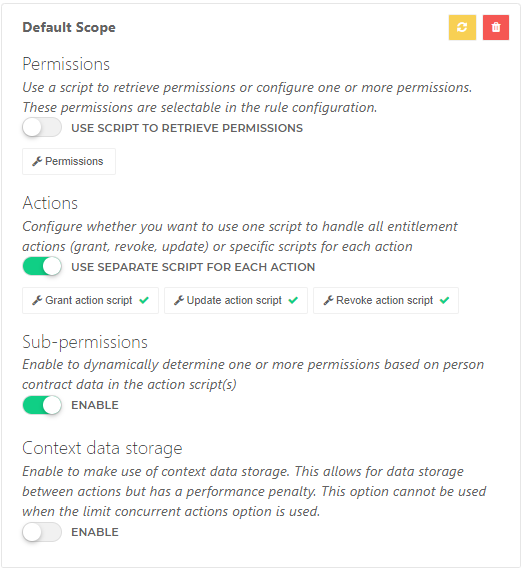
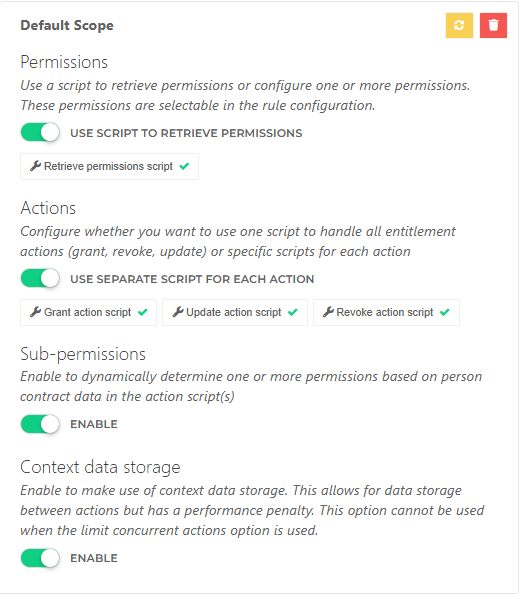
Readme Wip

diff --git a/README.md b/README.md
@@ -52,12 +52,16 @@ Extensive knowledge of HelloID provisioning and Nedap Ons (Nedap user and Nedap 
       - [Permission DisplayName](#permission-displayname)
       - [MappingFiles](#mappingfiles)
       - [Account reference Validation Check](#account-reference-validation-check)
+      - [SubPermissions](#subpermissions)
       - [Processing Multiple Accounts](#processing-multiple-accounts)
       - [Preview Mode (dryRun):](#preview-mode-dryrun)
       - [Account Object](#account-object)
       - [DefaultScope](#defaultscope)
         - [Roles Permissions (myTeams, MyLocations)](#roles-permissions-myteams-mylocations)
       - [Deprecated Code in the connector](#deprecated-code-in-the-connector)
+      - [Backwards Compatible](#backwards-compatible)
+        - [CSV Lookup](#csv-lookup)
+      - [Scope Settings](#scope-settings)
       - [Known Issue](#known-issue)
     - [Provisioning](#provisioning)
     - [Create:](#create)
@@ -73,6 +77,7 @@ Extensive knowledge of HelloID provisioning and Nedap Ons (Nedap user and Nedap 
   - [Setup the connector](#setup-the-connector)
       - [Permissions.ps1  (Roles)](#permissionsps1--roles)
       - [DefaultScope-Grant.ps1](#defaultscope-grantps1)
+      - [DefaultScope-Revoke.ps1](#defaultscope-revokeps1)
       - [Create.ps1](#createps1)
       - [Update.ps1](#updateps1)
   - [HelloID Docs](#helloid-docs)
@@ -111,7 +116,7 @@ The following settings are required to connect to the API.
  - Mapping between HR departments to Nedap Clients/Locations for determining the scope for the Nedap Provisioning roles and possibly for the DefaultScope.
 
 - Mapping between HR Teams to Nedap Team/Employee for determining the scope for the Nedap Provisioning roles and possibly for the DefaultScope.
- - Determine the scope **Types** that are required for the role assignments. The connector supports default **twelve scope possibilities**. The overview can be overwhelming to the customer in the entitlement overview. This means that there are ten entitlements created per Nedap Role. Please remove the entitlement types which not apply to your needs, by removing the code in the entitlement script.
+ - Determine the scope **Types** that are required for the role assignments. The connector supports default **twelve scope possibilities**. The overview can be overwhelming to the customer in the entitlement overview. This means that there are twelve entitlements created per Nedap Role. Please remove the entitlement types which not apply to your needs, by removing the code in the entitlement script.
 
 - The HelloID DataStorage must be enabled
 
@@ -130,7 +135,7 @@ Example:
   This connector only manages the users and the authorizations. And is intended to be used along with a direct sync HR. AFAS for example. So the Employee objects are not managed in this connector. The connector depends on this sync. When an employee object is not found the user cannot be created.
 
 #### DataStorage
-  The connector uses DataStorage to keep track of the current permissions (Provisioning Roles). The DataStorage is behind a feature flag so must be enabled before it can be used in your tenant.
+  The connector uses DataStorage to keep track of the current permissions; Provisioning Roles and DefaultScope. The DataStorage is behind a feature flag so must be enabled before it can be used in your tenant.
 
 #### Single Agent
   Since this connector is using DataStorage, all actions are executed one at a time. Therefore our best practice is the usage of one HelloID Agent for this connector. Also accessing the required local certificate file and CSV mapping files might result in slower processing and/or file locks.
@@ -149,7 +154,8 @@ Example:
 <br>
 
 #### MappingFiles
-The mapping files are used for both role assignments and the default scope in the permission scripts. It is assumed that the application between HR and Nedap is the same. The mapping are used to determine the custom teams and locations, explicitly for the calculated role assignment or the teams and locations in the default scope.
+- The mapping files are used for both role assignments and the default scope in the permission scripts. It is assumed that the application between HR and Nedap is the same. The mapping are used to determine the custom teams and locations, explicitly for the calculated role assignment or the teams and locations in the default scope.
+- Both mapping files are always checked, even if one of them is not required for the granted permissions.
 
 #### Account reference Validation Check
 > :warning: *Known error: *No HelloID Account reference(s) found!**
@@ -158,6 +164,10 @@ In certain situations, an employment with the reference number 1000467-1 may hav
 As a result, the permissions script keeps failing until the account is created in the second use case, or in the first use case when the business rules are modified to match the requirements. After this, the problem will be automatically resolved in the next scheduled/manual enforcement
 
 A drawback of this processing is that the account with a correctly filled account reference gets updated in Nedap Ons. However, because the HelloId action failed, it keeps retrying until the issue with the other account is resolved, also causing the 'correct' account to receive updates each time. Additionally, the desired permissions are not saved in the data storage. When another permission is triggered from HelloID, it gets overwritten because the desired permission is not stored in the data storage. The same problem exists if the business rule has been configured incorrectly.
+
+#### SubPermissions
+Each entitlement shows its own sub-permissions. Because multiple entitlements can provide the same type of access due to backward-compatible entitlements, situations may arise where the sub-permissions displayed in HelloID are not updated to the latest status. For example, if you have the DefaultScope permissions and later add AllEmployees, the Subpermissions of the DefaultScope entitlement cannot be updated during the grant of the AllEmployees entitlement, so it retains its current state. This can be confusing; however, the permissions in Nedap are updated as expected. To 'update' the sub-permissions of the entitlement, you can initiate a 'Force Update' action from the entitlement menu.
+
 
 #### Processing Multiple Accounts
 
@@ -172,7 +182,8 @@ Note that in preview mode (DryRun), all HelloID contracts of a Person are in sco
 The output presented in the result object merely represents a subset of the available data. When additional data is required, it can be obtained from the raw dataset.
 
 #### DefaultScope
-The DefaultScope consists of three entitlements, whereas the **"Defaultscope" entitlement only exists for backward compatibility**. This entitlement is merely a combination of the other two: Locations and Teams. So, when you grant both entitlements; DefaultScopeTeams and DefaultScopeLocations, the result is the same as the entitlement DefaultScope. You can use them both simultaneously, but they will overwrite the previous permissions, resulting in conflicts.
+The DefaultScope consists of five entitlements, with the 'DefaultScope' entitlement existing solely for backward compatibility. This entitlement is simply a combination of four others: MyLocations, MyTeams, AllClients, and AllEmployees *(where, in the case of the DefaultScope entitlement, AllClients and AllEmployees are looked up from the CSV file)*. Granting these individual entitlements results in the same access as the DefaultScope entitlement, and they can be used together for backward compatibility.
+
 
 ##### Roles Permissions (myTeams, MyLocations)
 In addition to **DefaultScope**, the same applies to the default scope in role assignments. The default scope assignment is also present for backward compatibility. Therefore, the recommended practice is to use the specific entitlements **DefaultScopeTeams** and **DefaultScopeLocations**.
@@ -182,6 +193,27 @@ During the changes in the connector in march, some deprecated code was left in p
   - The `AllClients` and `MySelf` logic remains in the Defaultscope logic despite it not being used anymore.
   - Not all the logging has been updated to reflect the new names of the permissions. For example, when granting DefaultScopeTeams, the logging might still return Defaultscope.
   - The Defaultscope entitlement and the default scope role assignment are only retained to avoid changes in the business rules when updating an existing implementation.
+
+
+#### Backwards Compatible
+Nedap has introduced a new authorization policy that requires scopes on roles to be assigned more specifically. This primarily means that AllClients and AllEmployees can no longer be assigned as scopes through the DefaultScope. These must now be assigned directly to the role.
+To prevent requiring our customers to immediately switch to the new authorization model, we have adjusted the connector so that the transition is not yet enforced.
+
+Now, when assigning a role with the DefaultScope, the connector checks the existing mapping file to see if the contract of the person originally had access to AllClients or AllEmployees. If this is the case, we will include the role's scope with AllClients or AllEmployees.
+
+> :information_source: This is only required for existing implementations. For new implementations, you should not use these entitlements and should start directly with the new entitlements
+
+##### CSV Lookup
+- The entitlement `Permission - DefaultScope (Old)` will perform a lookup in the mapping to retrieve AllEmployees and AllClients.
+- The entitlements `Permission - :RoleName - Type: DefaultScoped` will also perform a lookup in the mapping to retrieve AllEmployees and AllClients
+-
+
+
+#### Scope Settings
+- manage geavanceerd bereik voor andere aplicaties in het nedap landschap
+- Kan niet gebruikt worden voor een rol toewijzing.
+- We kunnen de bestaande vinkjes niet overschrijven. (Dus zorda wij het recht weer ontnemen staat die weer zoals die oorspronkelijk stond.)
+-
 
 
 #### Known Issue
@@ -263,16 +295,20 @@ All in One Script
 
 
 ### DefaultScope Permissions
-- Static values: you can use the `defaultScopeEntitlements.ps1` script or enter three static entitlements. These values are then used in the permissions (Defaultscope). The preferable way is to use the script to avoid typos. Make sure that the "references" match the following values.
+- Static values: you can use the `defaultScopeEntitlements.ps1` script or enter five static entitlements. These values are then used in the permissions (Defaultscope). The preferable way is to use the script to avoid typos. Make sure that the "references" match the following values.
    - DefaultScope
    - DefaultScopeTeams
    - DefaultScopeLocations
+   - DefaultScopeAllClients
+   - DefaultScopeAllEmployees
+
+> :warning: Switching between static and script values results in the loss of entitlements from the configured business rules.
 
 ### DefaultScope Grant/Update/Revoke
 Separate Scripts
 *(Sequenced after the Account lifecycle)*
 
-- The DefaultScope, or the teams and locations, can be set in Nedap. Therefore, the DefaultScope can be configured as permission in HelloID. The scope of an account will be calculated based on the contracts in scope against an external mapping file. You can find an example of such a mapping file in the Assets folder.
+- The DefaultScope, or the teams and locations and the scope settings, can be set in Nedap. Therefore, the DefaultScope can be configured as permission in HelloID. The scope of an account will be calculated based on the contracts in scope against an external mapping file. You can find an example of such a mapping file in the Assets folder.
   Result:
      - Grant
        - For each account one or two Audit Logs with a summary of the DefaultScope  (Location and Teams) are separated Logs.
@@ -355,6 +391,12 @@ The following table displays an overview of the functionality of the Nedap Ons c
   $IsGrantMySelf              = $false                                   # Set Scope (MySelf)
   ```
 
+#### DefaultScope-Revoke.ps1
+  ```PowerShell
+# Configuration
+  $IsGrantMySelf              = $false                                   # Set Scope (MySelf)
+  ```
+
 #### Create.ps1
 
   ```PowerShell
@@ -380,7 +422,7 @@ $employmentContractFilter     = { $_.Custom.NedapOnsIdentificationNo }  # Dienst
 
 <br>
 
- - Use the script `defaultScopeEntitlements.ps1` with three static permissions or add them manually. The display name can be changed according to customer requirements, but the reference should match the values in the example. These values are used in the connector as a reference<br>
+ - Use the script `defaultScopeEntitlements.ps1` with five static permissions or add them manually. The display name can be changed according to customer requirements, but **the Reference should match the values in the example**. These values are used in the connector as a reference.<br>
 <img src="Assets/DefaultScopeStatic.png">
 
 